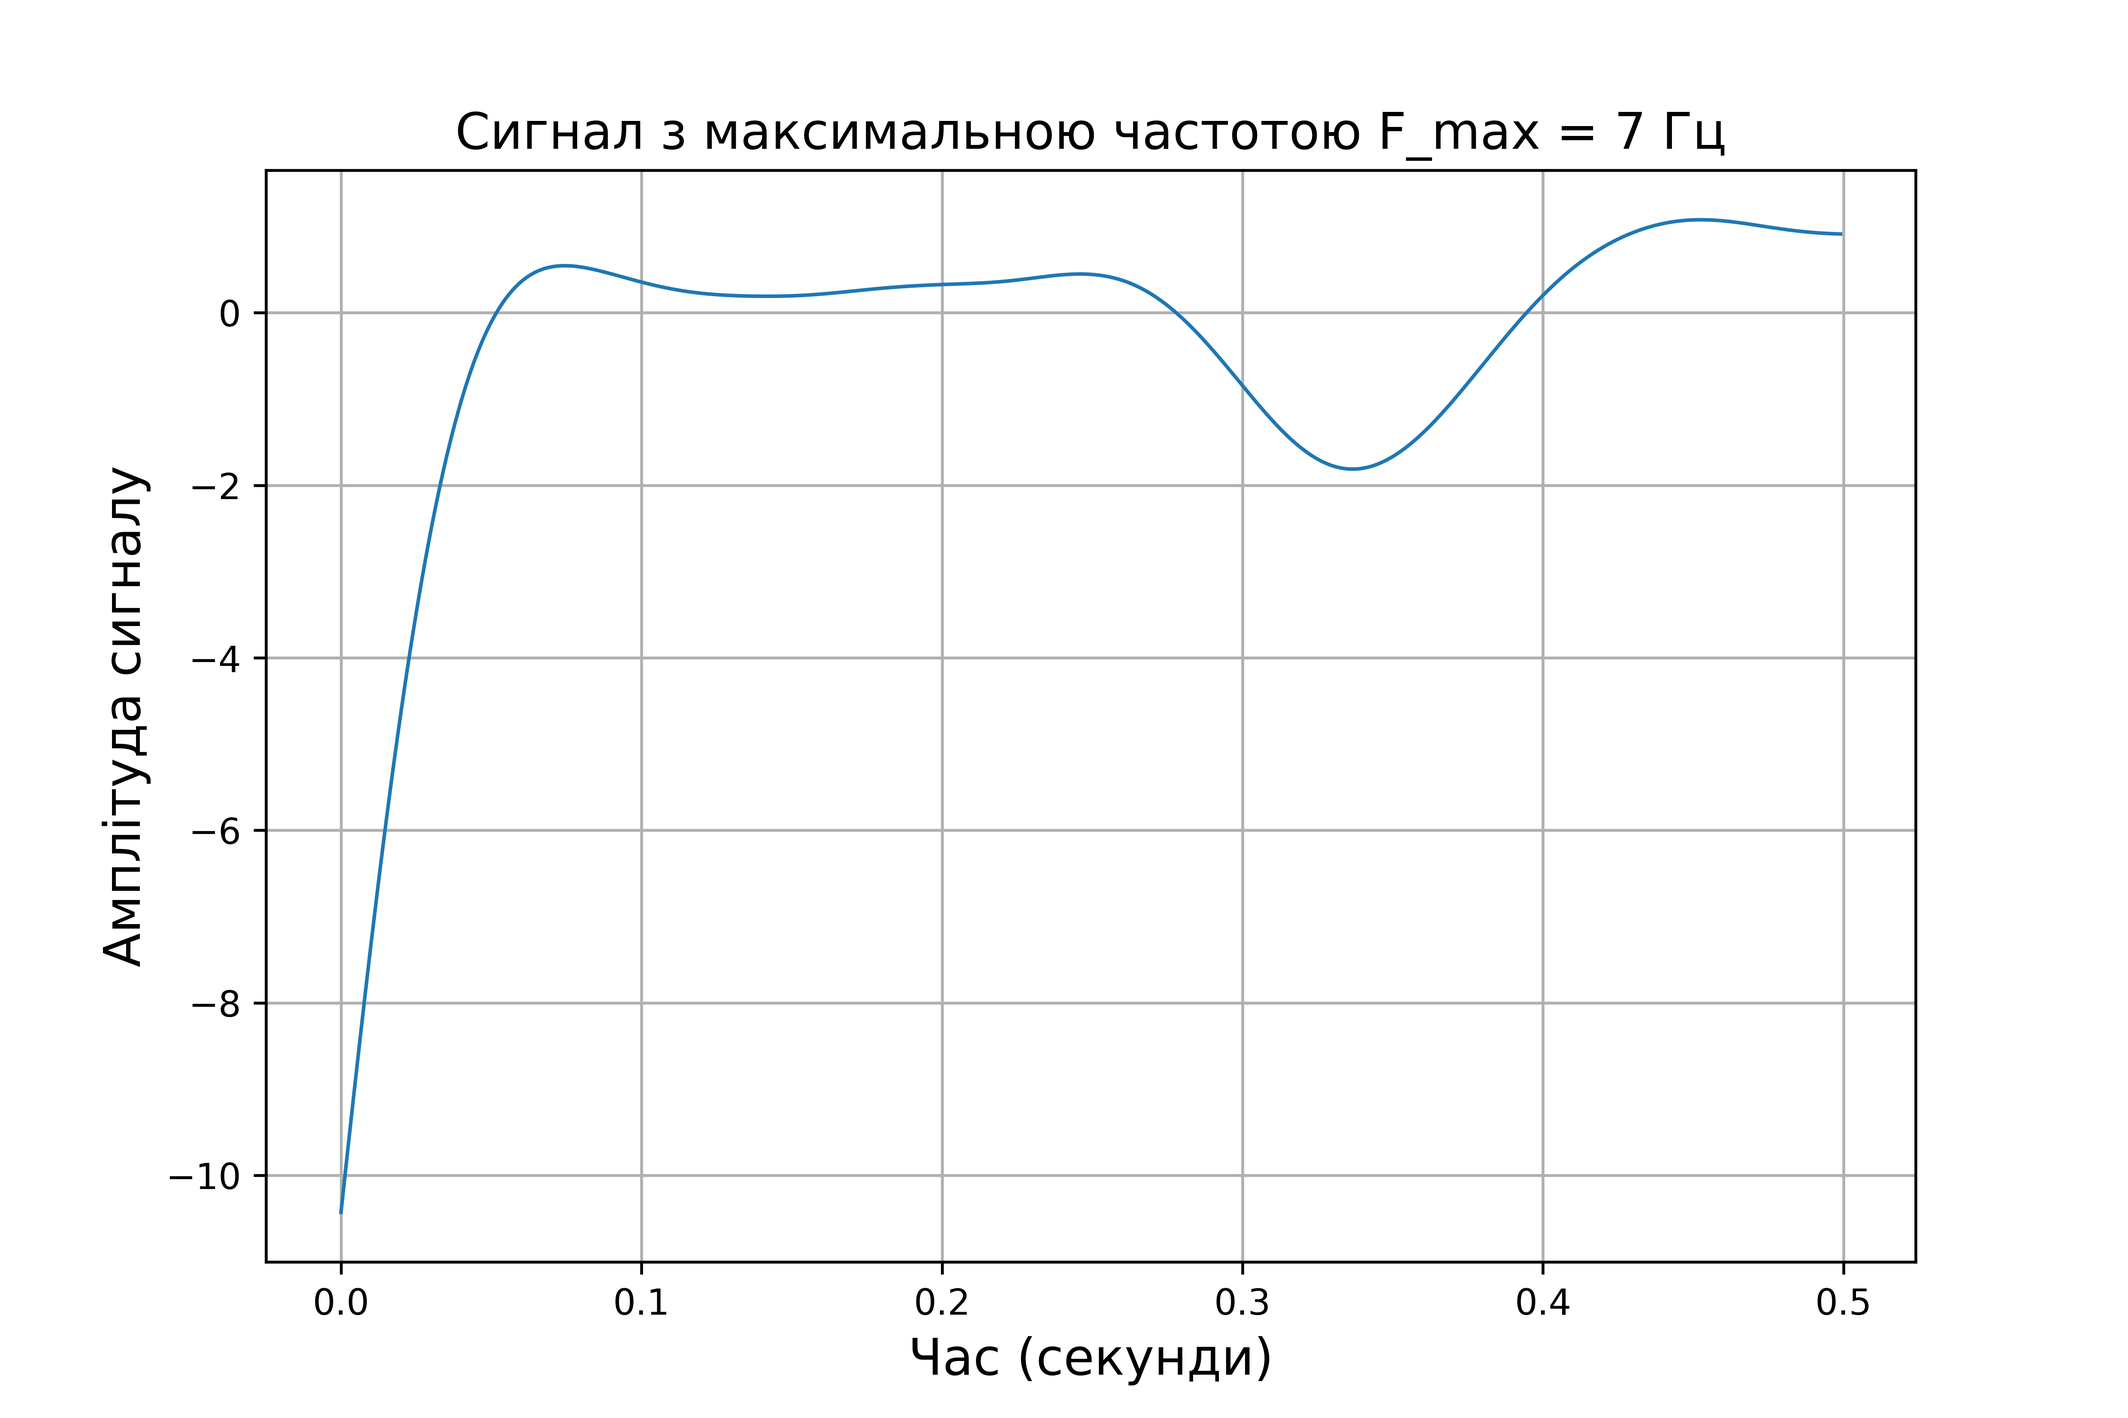
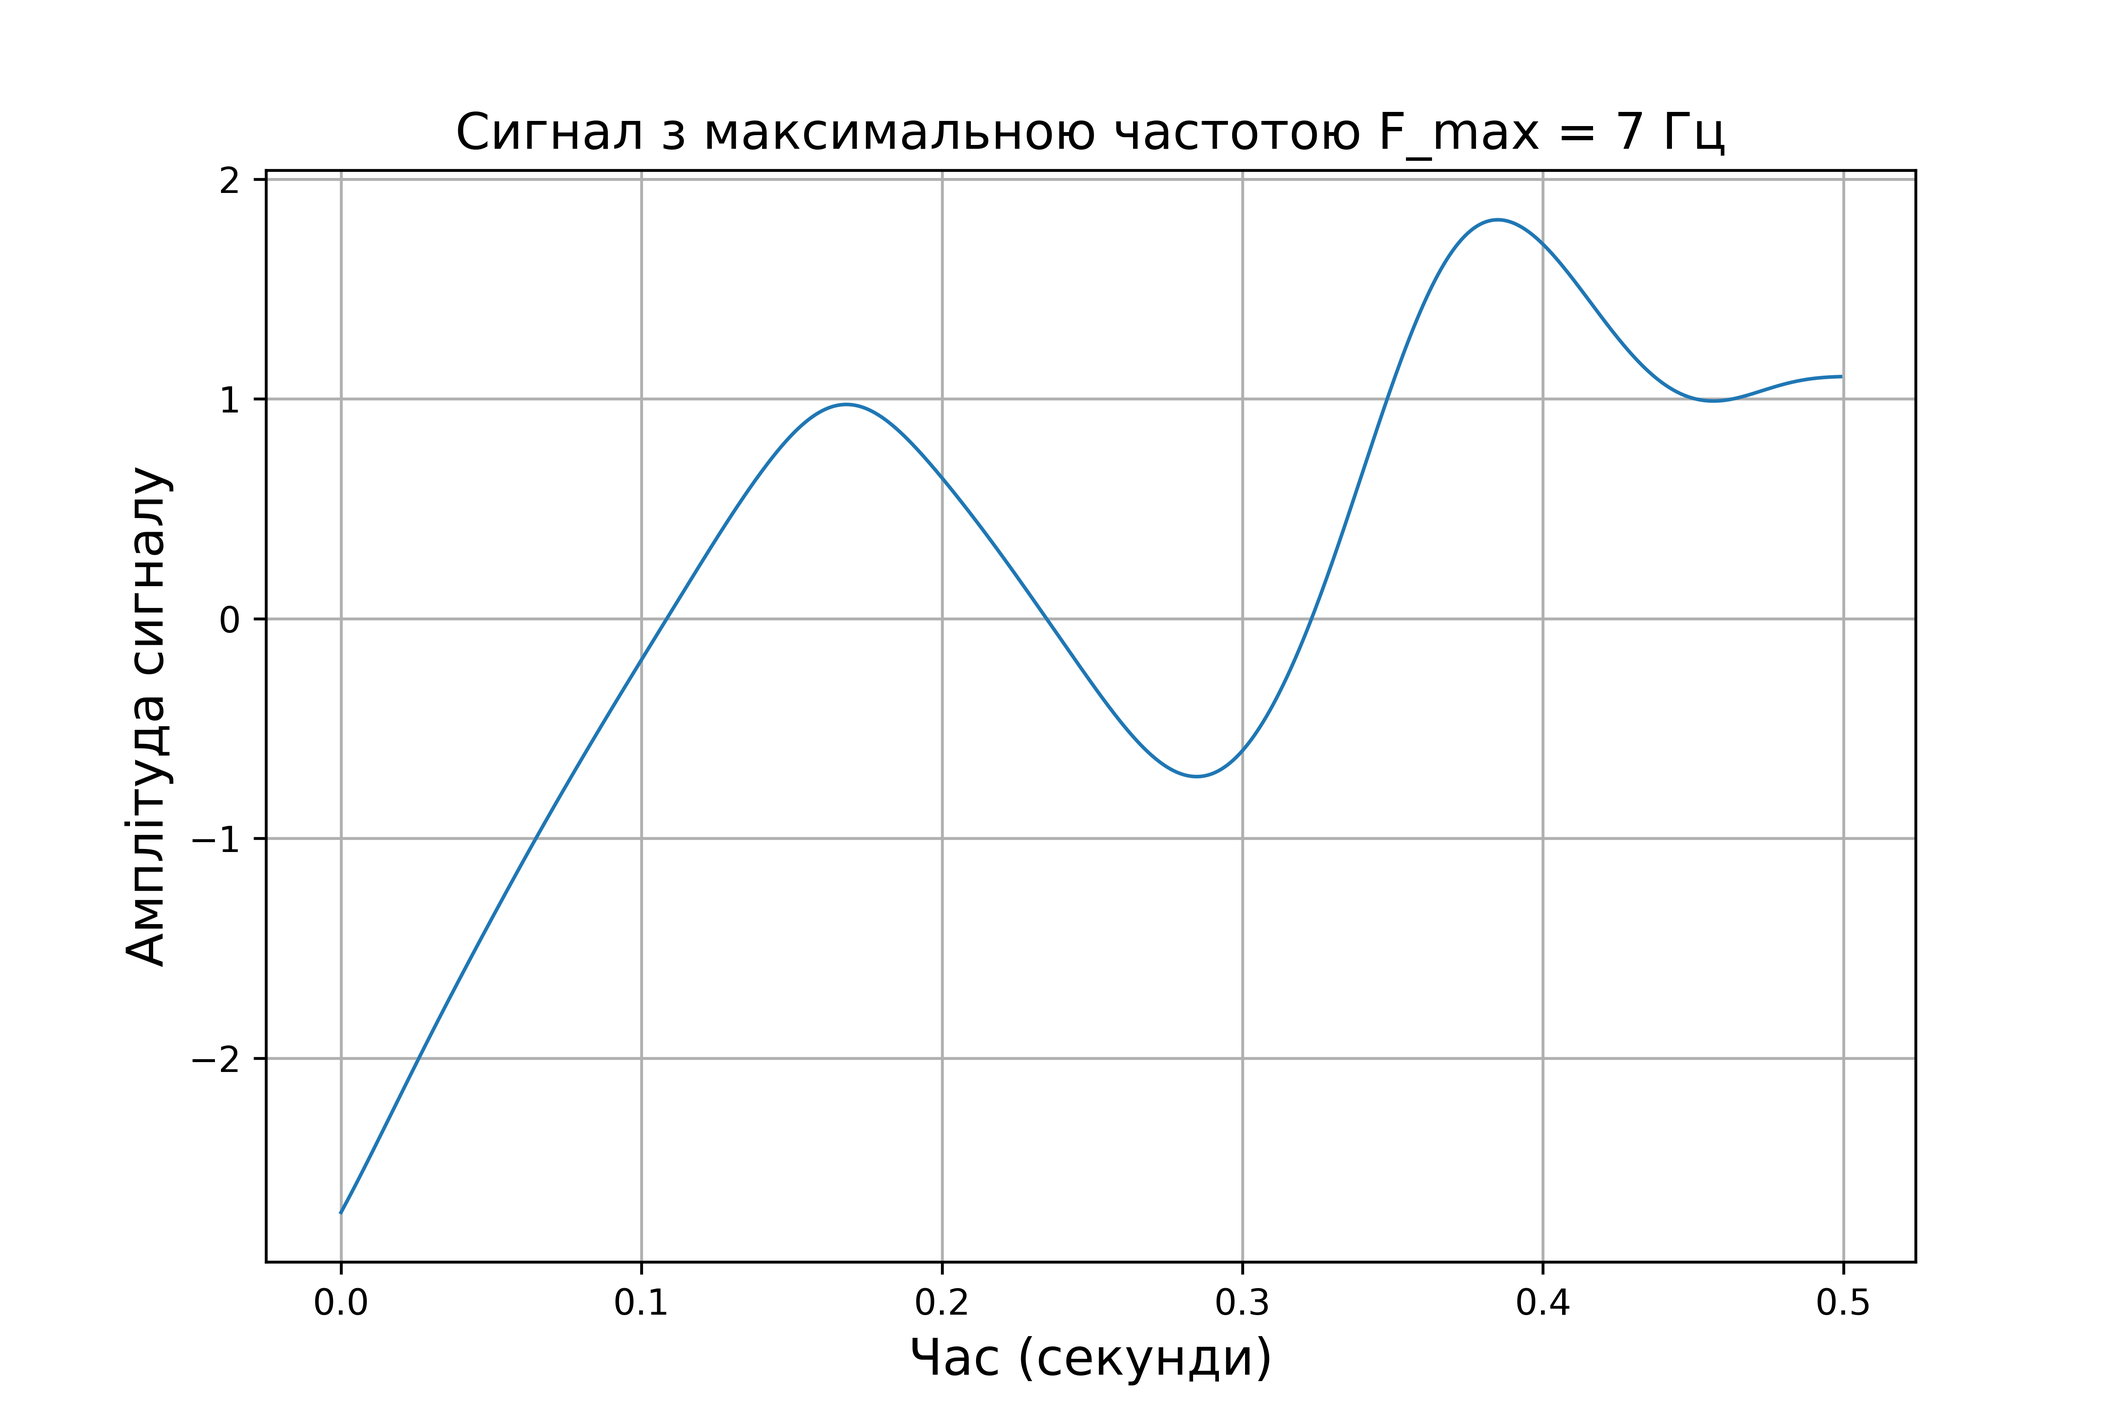
Signal processing, 2

diff --git a/SignalProcessing/SignalProcessing.py b/SignalProcessing/SignalProcessing.py
@@ -1,61 +1,239 @@
 # Serhii Zeibel / 529
+import os
 import numpy as np
 import matplotlib.pyplot as plt
-from scipy import signal, fft
+from scipy import signal as sp_signal, fft
 
-# Параметри варіант 3
-n = 500
-Fs = 1000
-F_max = 7
 
-# Генерація випадкового сигналу
-random_signal = np.random.normal(0, 10, n)
+# ==========================================
+# Допоміжна функція для збереження графіка
+# ==========================================
+def save_figure(fig, file_name, figures_dir, dpi_value=600):
+    """
+    Зберігає рисунок у папку figures.
+    """
+    fig.savefig(os.path.join(figures_dir, file_name + ".png"), dpi=dpi_value)
+    plt.close(fig)
 
-# Формування часової осі
-t = np.arange(n) / Fs
 
-# Розрахунок ФНЧ
-w = F_max / (Fs / 2)
-sos = signal.butter(3, w, 'low', output='sos')
+# Головна функція
+def main():
+    # Параметри варіанту 3
+    n = 500                 # Довжина сигналу у відліках
+    Fs = 1000               # Частота дискретизації, Гц
+    F_max = 7               # Максимальна частота сигналу, Гц
+    F_filter = 14           # Полоса пропуску фільтра для відновлення, Гц
+    Dt_values = [2, 4, 8, 16]  # Кроки дискретизації.
 
-# Фільтрація сигналу
-filtered_signal = signal.sosfiltfilt(sos, random_signal)
+    # Параметри оформлення графіків
+    width_cm = 21
+    height_cm = 14
+    font_size = 14
+    line_width = 1
+    dpi_value = 600
 
-# Розрахунок спектру
-spectrum = fft.fft(filtered_signal)
-spectrum_shifted = np.abs(fft.fftshift(spectrum))
+    script_dir = os.path.dirname(os.path.abspath(__file__))
+    figures_dir = os.path.join(script_dir, "figures")
 
-freqs = fft.fftfreq(n, 1/Fs)
-freqs_shifted = fft.fftshift(freqs)
+    # ПРАКТИЧНА РОБОТА №2
+    # Генерація випадкового сигналу
+    # a = 0 (середнє), b = 10 (стандартне відхилення), n = 500 (кількість значень)
+    random_signal = np.random.normal(0, 10, n)
 
-# Графік сигналу
-title_signal = f"Сигнал з максимальною частотою F_max = {F_max} Гц"
+    # Формування часової осі
+    t = np.arange(n) / Fs
 
-fig1, ax1 = plt.subplots(figsize=(21/2.54, 14/2.54))
-ax1.plot(t, filtered_signal, linewidth=1)
+    # Розрахунок параметрів ФНЧ для обмеження сигналу частотою F_max
+    # Нормована частота: w = F_max / (Fs / 2)
+    w = F_max / (Fs / 2)
 
-ax1.set_xlabel("Час (секунди)", fontsize=14)
-ax1.set_ylabel("Амплітуда сигналу", fontsize=14)
-plt.title(title_signal, fontsize=14)
+    # Фільтр Баттерворта 3-го порядку у форматі SOS
+    sos = sp_signal.butter(3, w, "low", output="sos")
 
-ax1.grid(True)
+    # Фільтрація сигналу
+    filtered_signal = sp_signal.sosfiltfilt(sos, random_signal)
 
-fig1.savefig("./figures/" + title_signal + ".png", dpi=600)
-plt.close(fig1)
+    # Розрахунок спектра відфільтрованого сигналу
+    spectrum = fft.fft(filtered_signal)
+    spectrum_shifted = np.abs(fft.fftshift(spectrum))
 
-# Графік спектра
-title_spectrum = f"Спектр сигналу з максимальною частотою F_max = {F_max} Гц"
+    freqs = fft.fftfreq(n, 1 / Fs)
+    freqs_shifted = fft.fftshift(freqs)
 
-fig2, ax2 = plt.subplots(figsize=(21/2.54, 14/2.54))
-ax2.plot(freqs_shifted, spectrum_shifted, linewidth=1)
+    # Побудова та збереження графіка сигналу
+    title_signal = f"Сигнал з максимальною частотою F_max = {F_max} Гц"
 
-ax2.set_xlabel("Частота (Гц)", fontsize=14)
-ax2.set_ylabel("Амплітуда спектру", fontsize=14)
-plt.title(title_spectrum, fontsize=14)
+    fig1, ax1 = plt.subplots(figsize=(width_cm / 2.54, height_cm / 2.54))
+    ax1.plot(t, filtered_signal, linewidth=line_width)
+    ax1.set_xlabel("Час (секунди)", fontsize=font_size)
+    ax1.set_ylabel("Амплітуда сигналу", fontsize=font_size)
+    ax1.set_title(title_signal, fontsize=font_size)
+    ax1.grid(True)
 
-ax2.grid(True)
+    save_figure(fig1, title_signal, figures_dir, dpi_value)
 
-fig2.savefig("./figures/" + title_spectrum + ".png", dpi=600)
-plt.close(fig2)
+    # Побудова та збереження графіка спектра
+    title_spectrum = f"Спектр сигналу з максимальною частотою F_max = {F_max} Гц"
 
-print("У папці figures збережено 2 рисунки.")
+    fig2, ax2 = plt.subplots(figsize=(width_cm / 2.54, height_cm / 2.54))
+    ax2.plot(freqs_shifted, spectrum_shifted, linewidth=line_width)
+    ax2.set_xlabel("Частота (Гц)", fontsize=font_size)
+    ax2.set_ylabel("Амплітуда спектру", fontsize=font_size)
+    ax2.set_title(title_spectrum, fontsize=font_size)
+    ax2.grid(True)
+
+    save_figure(fig2, title_spectrum, figures_dir, dpi_value)
+
+    # ПРАКТИЧНА РОБОТА №3
+    # Підготовка списків для збереження результатів
+    discrete_signals = []         # Дискретизовані сигнали
+    discrete_spectrums = []       # Спектри дискретизованих сигналів
+    discrete_freqs_shifted = []   # Частотні осі для спектрів дискретизованих сигналів
+    restored_signals = []         # Відновлені аналогові сигнали після ФНЧ
+    variance_errors = []          # Дисперсії різниці (похибки)
+    snr_ratios = []               # Співвідношення сигнал-шум (відношення дисперсій)
+
+    # Розрахунок параметрів ФНЧ для відновлення сигналу
+    # Нормована частота фільтра відновлення: w = F_filter / (Fs / 2)
+    w_restore = F_filter / (Fs / 2)
+    sos_restore = sp_signal.butter(3, w_restore, "low", output="sos")
+
+    # Дисперсія початкового (відфільтрованого) сигналу
+    var_signal = np.var(filtered_signal)
+
+    # Основний цикл по кроках дискретизації Dt
+    for Dt in Dt_values:
+        # Дискретизація сигналу (прорідження)-
+        # Створюємо сигнал, заповнений нулями
+        discrete_signal = np.zeros(n)
+
+        # Записуємо значення лише через крок Dt
+        for i in range(0, round(n / Dt)):
+            idx = i * Dt
+            if idx < n:
+                discrete_signal[idx] = filtered_signal[idx]
+
+        # Зберігаємо дискретизований сигнал
+        discrete_signals.append(discrete_signal)
+
+        # Розрахунок спектра дискретизованого сигналу
+        d_spectrum = fft.fft(discrete_signal)
+        d_spectrum_shifted = np.abs(fft.fftshift(d_spectrum))
+
+        d_freqs = fft.fftfreq(n, 1 / Fs)
+        d_freqs_shifted = fft.fftshift(d_freqs)
+
+        # Зберігаємо спектр та частотну вісь
+        discrete_spectrums.append(d_spectrum_shifted)
+        discrete_freqs_shifted.append(d_freqs_shifted)
+
+        # Відновлення аналогового сигналу з дискретного (через ФНЧ)
+        restored_signal = sp_signal.sosfiltfilt(sos_restore, discrete_signal)
+
+        # Зберігаємо відновлений сигнал
+        restored_signals.append(restored_signal)
+
+        #  Розрахунок похибки, дисперсії та ССШ
+        # Різниця між відновленим та початковим (відфільтрованим) сигналом
+        E1 = restored_signal - filtered_signal
+
+        # Дисперсія різниці (похибки)
+        var_error = np.var(E1)
+
+        # Співвідношення сигнал-шум як відношення дисперсій
+        if var_error == 0:
+            snr_value = np.inf
+        else:
+            snr_value = var_signal / var_error
+
+        # Зберігаємо результати
+        variance_errors.append(var_error)
+        snr_ratios.append(snr_value)
+
+    # Відображення дискретизованих сигналів (2x2)
+    title_discrete = "Сигнал з кроком дискретизації Dt = (2, 4, 8, 16)"
+
+    fig3, ax3 = plt.subplots(2, 2, figsize=(width_cm / 2.54, height_cm / 2.54))
+
+    s = 0
+    for i in range(0, 2):
+        for j in range(0, 2):
+            ax3[i][j].plot(t, discrete_signals[s], linewidth=line_width)
+            ax3[i][j].grid(True)
+            s += 1
+
+    fig3.supxlabel("Час (секунди)", fontsize=font_size)
+    fig3.supylabel("Амплітуда сигналу", fontsize=font_size)
+    fig3.suptitle(title_discrete, fontsize=font_size)
+
+    save_figure(fig3, title_discrete, figures_dir, dpi_value)
+
+    # Відображення спектрів дискретизованих сигналів (2x2)
+    title_discrete_spec = "Спектри сигналів з кроком дискретизації Dt = (2, 4, 8, 16)"
+
+    fig4, ax4 = plt.subplots(2, 2, figsize=(width_cm / 2.54, height_cm / 2.54))
+
+    s = 0
+    for i in range(0, 2):
+        for j in range(0, 2):
+            ax4[i][j].plot(discrete_freqs_shifted[s], discrete_spectrums[s], linewidth=line_width)
+            ax4[i][j].grid(True)
+            s += 1
+
+    fig4.supxlabel("Частота (Гц)", fontsize=font_size)
+    fig4.supylabel("Амплітуда спектру", fontsize=font_size)
+    fig4.suptitle(title_discrete_spec, fontsize=font_size)
+
+    save_figure(fig4, title_discrete_spec, figures_dir, dpi_value)
+
+    # Відображення відновлених аналогових сигналів (2x2)
+    title_restored = "Відновлені аналогові сигнали з кроком дискретизації Dt = (2, 4, 8, 16)"
+
+    fig5, ax5 = plt.subplots(2, 2, figsize=(width_cm / 2.54, height_cm / 2.54))
+
+    s = 0
+    for i in range(0, 2):
+        for j in range(0, 2):
+            ax5[i][j].plot(t, restored_signals[s], linewidth=line_width)
+            ax5[i][j].grid(True)
+            s += 1
+
+    fig5.supxlabel("Час (секунди)", fontsize=font_size)
+    fig5.supylabel("Амплітуда сигналу", fontsize=font_size)
+    fig5.suptitle(title_restored, fontsize=font_size)
+
+    save_figure(fig5, title_restored, figures_dir, dpi_value)
+
+    # Графік залежності дисперсії від кроку дискретизації
+    title_var = "Залежність дисперсії від кроку дискретизації"
+
+    fig6, ax6 = plt.subplots(figsize=(width_cm / 2.54, height_cm / 2.54))
+    ax6.plot(Dt_values, variance_errors, linewidth=line_width)
+    ax6.set_xlabel("Крок дискретизації", fontsize=font_size)
+    ax6.set_ylabel("Дисперсія", fontsize=font_size)
+    ax6.set_title(title_var, fontsize=font_size)
+    ax6.grid(True)
+
+    save_figure(fig6, title_var, figures_dir, dpi_value)
+
+    # Графік співвідношення сигнал-шум від кроку дискретизації
+    title_snr = "Залежність співвідношення сигнал-шум від кроку дискретизації"
+
+    fig7, ax7 = plt.subplots(figsize=(width_cm / 2.54, height_cm / 2.54))
+    ax7.plot(Dt_values, snr_ratios, linewidth=line_width)
+    ax7.set_xlabel("Крок дискретизації", fontsize=font_size)
+    ax7.set_ylabel("ССШ", fontsize=font_size)
+    ax7.set_title(title_snr, fontsize=font_size)
+    ax7.grid(True)
+
+    save_figure(fig7, title_snr, figures_dir, dpi_value)
+
+    print("У папці figures збережено всі графіки.")
+    print("Кроки дискретизації Dt:", Dt_values)
+    print("Дисперсія початкового (відфільтрованого) сигналу:", var_signal)
+    print("Дисперсії різниці (похибки):", variance_errors)
+    print("Співвідношення сигнал-шум (ССШ):", snr_ratios)
+
+
+if __name__ == "__main__":
+    main()
